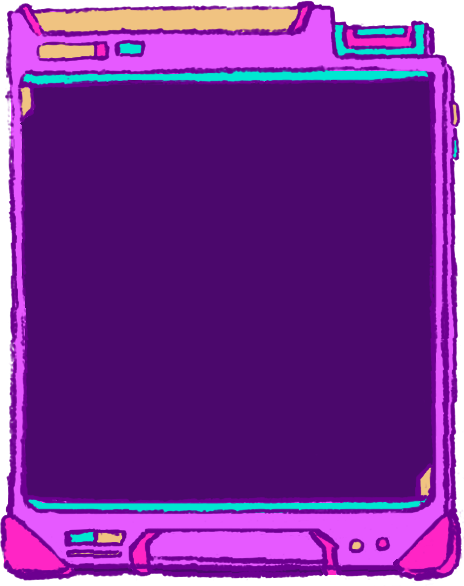
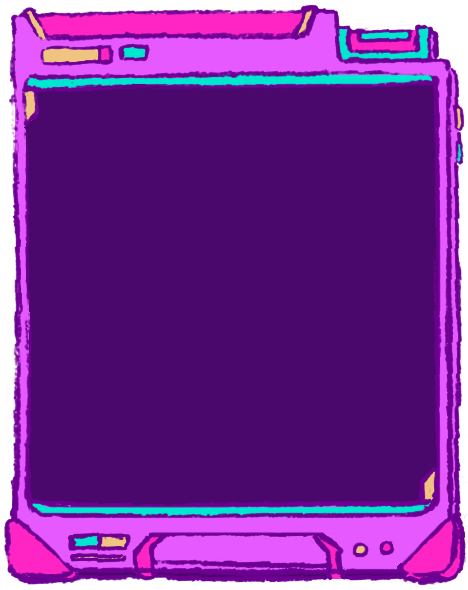
ui changes wip

diff --git a/src/AuctionScene.ts b/src/AuctionScene.ts
@@ -31,7 +31,6 @@ export class AuctionScene extends Phaser.Scene {
   private purchased: Item[] = [];
   private itemDisplay!: ItemImage;
   private priceLabel!: Phaser.GameObjects.Text;
-  private priceLabelLabel!: Phaser.GameObjects.Text;
   private moneyLabel!: Phaser.GameObjects.Text;
   private bidEvent?: Phaser.Time.TimerEvent;
   private lostEvent?: Phaser.Time.TimerEvent;
@@ -48,7 +47,6 @@ export class AuctionScene extends Phaser.Scene {
   private timer!: Phaser.Time.TimerEvent;
   private bar!: Phaser.GameObjects.TileSprite;
   private bar2!: Phaser.GameObjects.Rectangle;
-  private label!: Phaser.GameObjects.Text;
   private spectators: Phaser.GameObjects.Image[] = [];
   private auctioner!: Auctioner;
 
@@ -109,9 +107,6 @@ export class AuctionScene extends Phaser.Scene {
 
     this.bar.tileRotation = -Math.PI;
 
-    this.label = this.add
-      .text(15, 27, "", { ...TEXT_STYLE, fontSize: "36px", color: "black" })
-      .setOrigin(0, 0.5);
     this.timer = this.time.delayedCall(DURATION, () =>
       this.scene.start("results"),
     );
@@ -218,30 +213,49 @@ export class AuctionScene extends Phaser.Scene {
       .setOrigin(0, 0.5)
       .setScale(1.5, 1.5);
 
-    const yellowBackgroundHud = this.add
-      .rectangle(
-        uiStartHud.x + 35,
-        uiStartHud.y,
-        uiStartHud.width - 53,
-        200,
-        COLORS.yellow.hex,
-      )
-      .setOrigin(0, 0.5)
-      .setScale(1.5);
-
     yellowBackground.setOrigin(0, 0);
+
+    this.add.image(750, 200, "bubble_speech").setScale(0.7);
 
     //// HUD ////
     const hudWidth = this.scale.width / 3;
     const hudCenter = sceneWidth + hudWidth / 2 - 40;
     this.moneyLabel = this.add
-      .text(hudCenter, 250, "", {
+      .text(hudCenter - 270, 190, "", {
         ...TEXT_STYLE,
         color: COLORS.pink.hexString,
         align: "left",
-        fontSize: "72px",
+        fontSize: "60px",
       })
-      .setOrigin(0.5);
+      .setOrigin(0, 0);
+
+    this.add
+      .text(hudCenter - 280, 250, "--------------------------------", {
+        ...TEXT_STYLE,
+        color: COLORS.pink.hexString,
+        align: "left",
+        fontSize: "32px",
+      })
+      .setOrigin(0, 0);
+
+    this.add
+      .text(hudCenter - 280, 700, "--------------------------------", {
+        ...TEXT_STYLE,
+        color: COLORS.pink.hexString,
+        align: "left",
+        fontSize: "32px",
+      })
+      .setOrigin(0, 0);
+
+    this.add
+      .text(hudCenter - 280, 210, "INVENTORY:", {
+        ...TEXT_STYLE,
+        color: COLORS.pink.hexString,
+        align: "left",
+        fontSize: "54px",
+      })
+      .setOrigin(0, 0);
+
     this.refreshMoney();
 
     this.hudCenter = hudCenter;
@@ -249,17 +263,11 @@ export class AuctionScene extends Phaser.Scene {
     const itemDisplayX = 960;
     const itemDisplayY = 470;
 
-    this.priceLabelLabel = this.add
-      .text(itemDisplayX, itemDisplayY - 320, "PRICE", {
-        ...TEXT_STYLE,
-        fontSize: "76px",
-      })
-      .setOrigin(0.5);
-
     // Object on sale and its price, next to the auctioner
     this.priceLabel = this.add
-      .text(itemDisplayX, itemDisplayY - 250, "", {
+      .text(itemDisplayX - 180, itemDisplayY - 275, "", {
         ...TEXT_STYLE,
+        color: COLORS.yellow.hexString,
         fontSize: "76px",
       })
       .setOrigin(0.5);
@@ -312,7 +320,6 @@ export class AuctionScene extends Phaser.Scene {
       this.finished = true;
       this.itemDisplay.setVisible(false);
       this.priceLabel.setVisible(false);
-      this.priceLabelLabel.setVisible(false);
       this.time.delayedCall(700, () => this.scene.start("results"));
       return;
     }
@@ -345,7 +352,6 @@ export class AuctionScene extends Phaser.Scene {
     });
   }
 
-  /** After a sale (to the player or a spectator): short pause on the hammer hit before the next object. */
   private presentNextItemAfterHammer() {
     this.bidEvent?.remove();
     this.lostEvent?.remove();
@@ -387,11 +393,8 @@ export class AuctionScene extends Phaser.Scene {
   private buy() {
     if (this.finished || this.waitingForNext) return;
     if (this.money < this.price) {
-      // Can't afford it: flash the money
+      // Can't afford it
       this.moneyLabel.setColor("red");
-
-      // Restart from the resting size: otherwise a new press mid-animation
-      // takes the enlarged size as its starting point and ends up stuck there.
       this.tweens.killTweensOf(this.moneyLabel);
       this.moneyLabel.setScale(1);
       this.tweens.add({
@@ -459,7 +462,7 @@ export class AuctionScene extends Phaser.Scene {
           `+ \$${increase}`,
           {
             ...TEXT_STYLE,
-            fontSize: "90px",
+            fontSize: "80px",
             fontStyle: "bold",
             stroke: COLORS.yellow.hexString,
             color: COLORS.darkpink.hexString,
@@ -467,6 +470,9 @@ export class AuctionScene extends Phaser.Scene {
           },
         )
         .setOrigin(0.5, 1);
+
+      text.setStroke(COLORS.purple.hexString, 16);
+
       this.tweens.add({
         targets: text,
         y: text.y - 54,
@@ -503,7 +509,7 @@ export class AuctionScene extends Phaser.Scene {
 
   private setPrice(price: number) {
     this.price = price;
-    this.priceLabel.setText(`$${price}`);
+    this.priceLabel.setText(`PRICE:  $${price}`);
   }
 
   private refreshMoney() {
@@ -514,6 +520,5 @@ export class AuctionScene extends Phaser.Scene {
     const remaining = this.timer.getRemaining();
     this.bar.width = this.scale.width * (remaining / DURATION);
     this.bar2.width = this.scale.width * (remaining / DURATION);
-    this.label.setText(Math.ceil(remaining / 1000).toString());
   }
 }

diff --git a/src/Button.ts b/src/Button.ts
@@ -65,8 +65,7 @@ export class Button extends Phaser.GameObjects.Container {
     this.hintLabel = new Phaser.GameObjects.Text(scene, 0, 0, hint, {
       ...TEXT_STYLE,
       fontSize: `${(fontSize * 2) / 3}px`,
-      color:
-        variant === "green" ? COLORS.pink.hexString : COLORS.cyan.hexString,
+      color: COLORS.purple.hexString,
     }).setOrigin(0.5, 0);
 
     this.add([this.image, this.label, this.hintLabel]);

diff --git a/src/LoadingScene.ts b/src/LoadingScene.ts
@@ -27,6 +27,7 @@ export class LoadingScene extends Phaser.Scene {
 
     // Images
     this.load.image("logo_nude", "logo_nude.png");
+    this.load.image("bubble_speech", "bubble_speech.png");
     this.load.image("line_pink1", "line_pink1.png");
     this.load.image("line_pink2", "line_pink2.png");
     this.load.image("line_yellow", "line_yellow.png");
